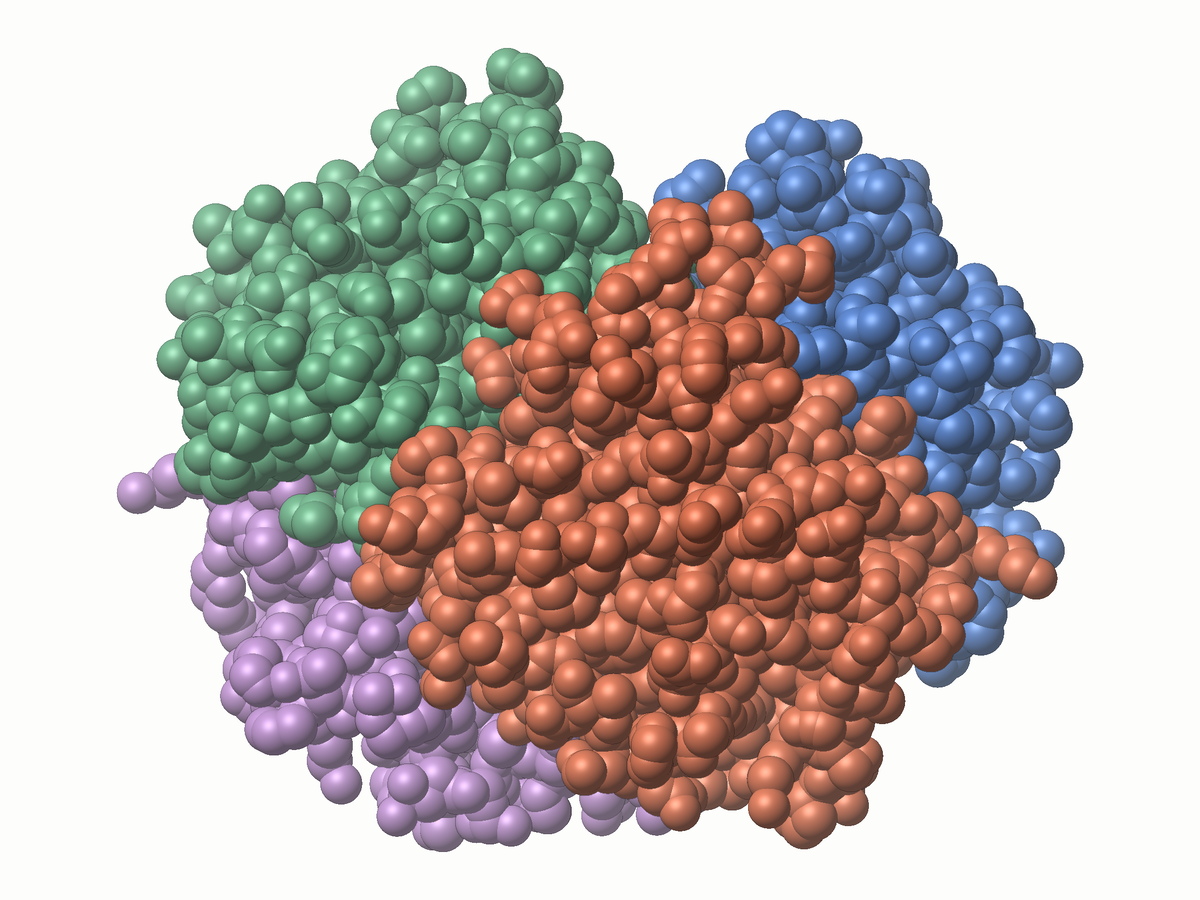
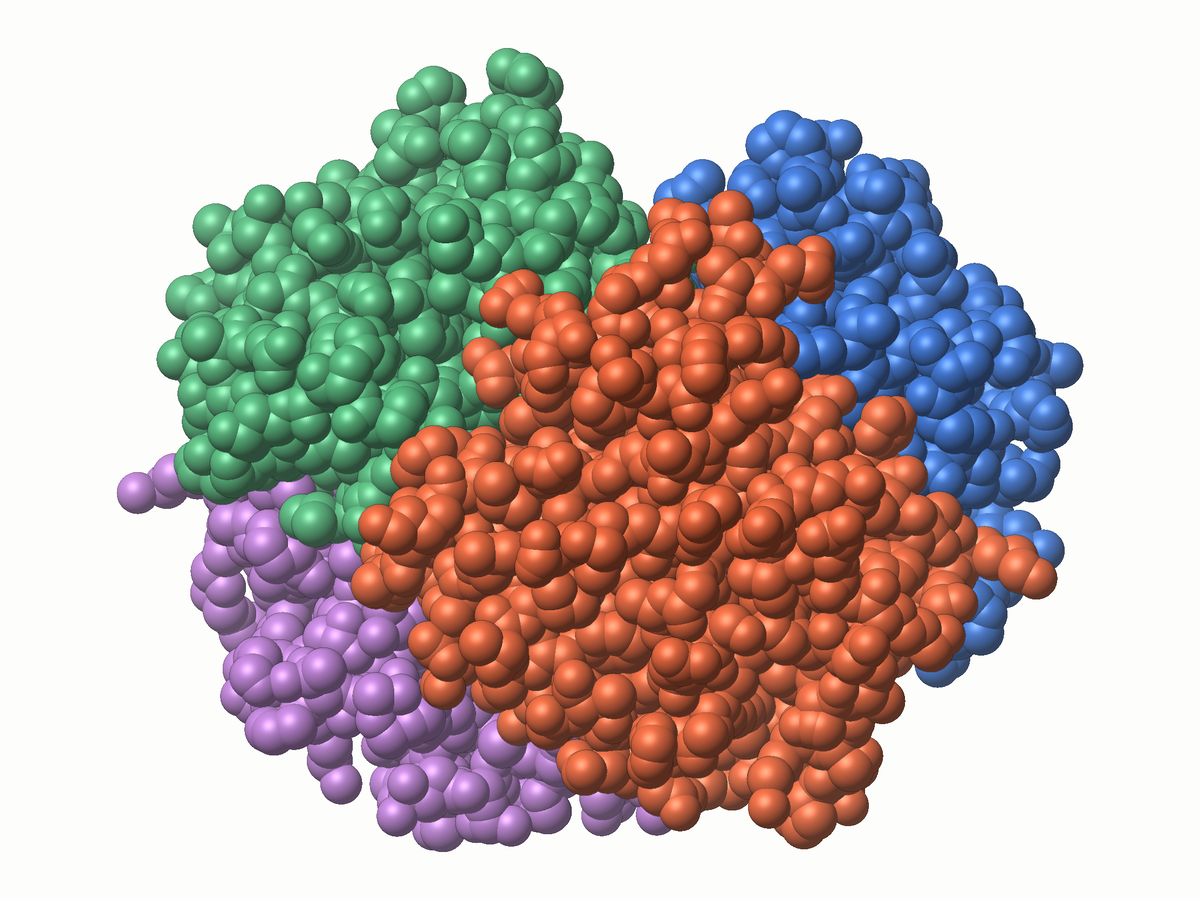
profold: Flat beside Illustrative, and Soft with more colour
The style buttons read Illustrative, Flat, Soft, the two inked styles
together. Soft deepens its colours a little and washes the far side
toward the paper by 26% rather than 42%, so it no longer looks faded;
its README pictures are redrawn.

diff --git a/src/render.rs b/src/render.rs
@@ -538,7 +538,7 @@ pub enum Style {
 
 impl Style {
     /// The drawn figure leads: it is what the viewer opens with.
-    pub const ALL: [Style; 3] = [Style::Illustrative, Style::Soft, Style::Flat];
+    pub const ALL: [Style; 3] = [Style::Illustrative, Style::Flat, Style::Soft];
     pub fn label(self) -> &'static str {
         match self {
             Style::Soft => "Soft",
@@ -557,7 +557,7 @@ impl Style {
     /// a painted one fades a little, as the back of a crowded scene does.
     pub fn fog(self) -> f32 {
         match self {
-            Style::Soft => 0.42,
+            Style::Soft => 0.26,
             Style::Illustrative => 0.0,
             Style::Flat => 0.2,
         }
@@ -862,6 +862,15 @@ fn vivid(c: [f32; 3]) -> [f32; 3] {
     hsl_to_rgb(h, (s * 1.5 + 0.18).min(1.0), 0.5 + (l - 0.5) * 0.62)
 }
 
+/// Deepen a colour a little, so it holds its own once lit and fogged.
+fn rich(c: [f32; 3]) -> [f32; 3] {
+    let (h, s, l) = rgb_to_hsl(c);
+    if s < 0.02 {
+        return c;
+    }
+    hsl_to_rgb(h, (s * 1.2 + 0.05).min(0.9), l)
+}
+
 /// Settle a colour into paint: full-bodied but never neon, and drawn toward
 /// a mid lightness so the dark ink outline always stands off it.
 fn chalky(c: [f32; 3]) -> [f32; 3] {
@@ -1050,7 +1059,7 @@ pub fn build_scene(
         }
     }
     let tone: Option<fn([f32; 3]) -> [f32; 3]> = match style {
-        Style::Soft => None,
+        Style::Soft => Some(rich),
         Style::Illustrative => Some(vivid),
         Style::Flat => Some(chalky),
     };
@@ -2383,9 +2392,10 @@ mod tests {
             .map(|p| p.color)
             .collect::<Vec<_>>()
         };
-        // Fixed, elements keep their standard colours whatever the palette.
+        // Fixed, elements keep their standard colours whatever the palette,
+        // deepened as the style deepens every colour.
         let standard = colors(Palette::Spectrum, true);
-        assert_eq!(standard[0], crate::elements::Element::O.color());
+        assert_eq!(standard[0], rich(crate::elements::Element::O.color()));
         assert_eq!(colors(Palette::Viridis, true), standard);
         // Otherwise each palette paints them its own way.
         assert_ne!(colors(Palette::Viridis, false), standard);
